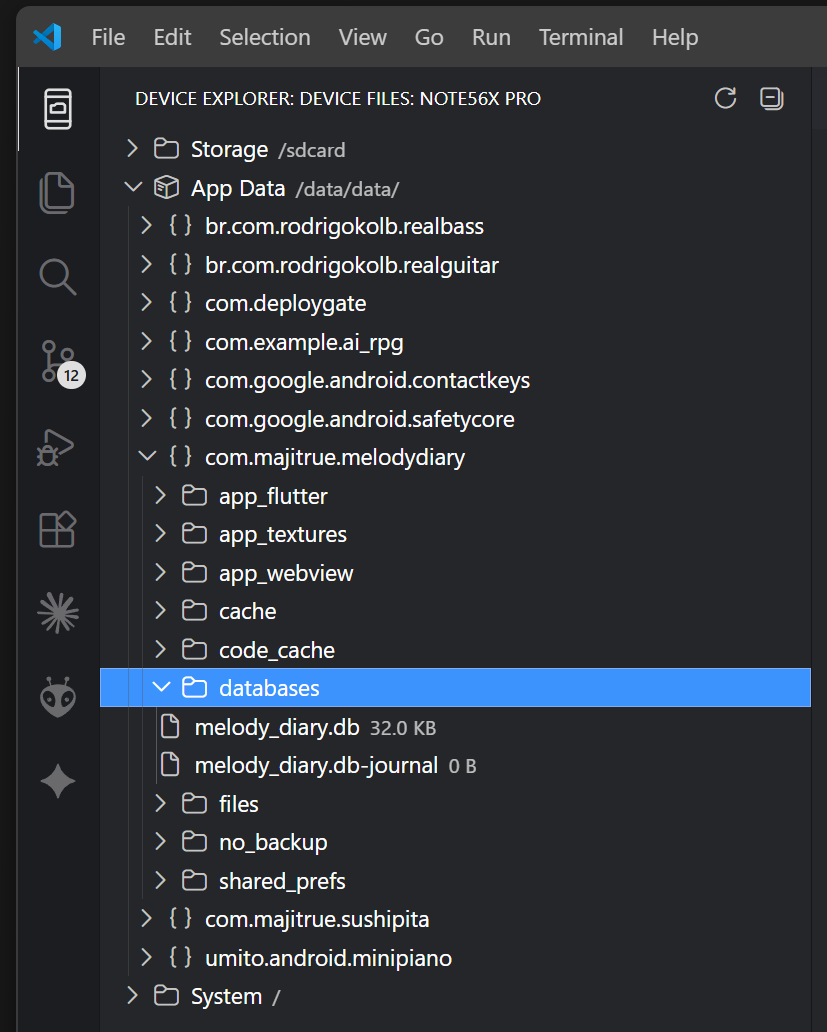
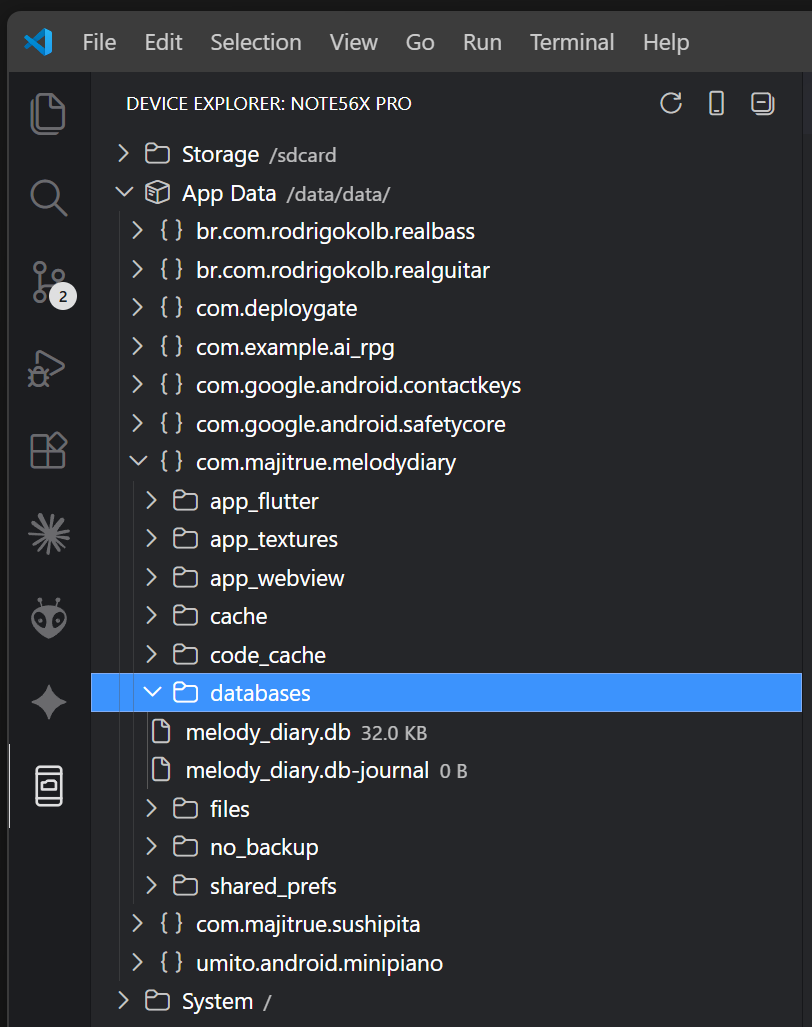
v0.5.1: README多言語化・iOS要件追記・スクリーンショット更新
- README英語/日本語セクション（ナビゲーションリンク付き）
- iOS必要条件をREADMEに追記
- スクリーンショット更新
- description更新（Device File Explorer検索用）
- CHANGELOG英語統一・内部変更を除外

diff --git a/README.md b/README.md
@@ -1,6 +1,8 @@
 # Android / iOS Build & Run
 
-Build, install, and run Android & iOS apps directly from VSCode.
+<a href="#ja">日本語</a>
+
+Build, install, and run Android & iOS apps directly from VSCode. Includes Device File Explorer.
 
 ![Status Bar](images/statusbar.png)
 
@@ -33,9 +35,14 @@ Build, install, and run Android & iOS apps directly from VSCode.
 
 ## Requirements
 
+### Android
 - **Android SDK** with `adb` and `emulator`
 - **Gradle wrapper** (`gradlew` / `gradlew.bat`) in your project root
 - An Android project with `build.gradle` or `build.gradle.kts`
+
+### iOS (macOS only)
+- **Xcode** with Command Line Tools
+- An Xcode project (`.xcodeproj` or `.xcworkspace`)
 
 ## Quick Start
 
@@ -104,3 +111,64 @@ Add to `.vscode/launch.json`:
 ## License
 
 MIT
+
+[⬆ Top](#android--ios-build--run) | [日本語](#ja)
+
+---
+
+<h2 id="ja">日本語</h2>
+
+VSCode から Android / iOS アプリをビルド・インストール・実行。Device File Explorer 搭載。
+
+![ステータスバー](images/statusbar.png)
+
+## 機能
+
+- **デバイス選択** — ステータスバーに現在のデバイスを表示。クリックでデバイス選択やエミュレーター起動。
+
+  ![デバイスピッカー](images/device-picker.png)
+
+- **ワンクリック実行** — ステータスバーの `▶ Run` でビルド・インストール・起動。
+- **マルチデバイス** — 複数デバイスで同時にアプリを実行。デバイスごとに独立したLogcat出力。
+- **ビルドバリアント選択** — Gradleビルドバリアント（`debug`、`release`、フレーバー）を自動スキャン。
+- **エミュレーターコールドブート** — VSCodeからエミュレーターを再起動。
+- **Debug ConsoleにLogcat** — PIDフィルター付きでアプリログをDebug Consoleに表示。
+- **フローティングツールバー** — Flutterと同様のデバッグツールバーで停止・再起動。
+- **F5対応** — `launch.json` でF5キーからビルド＆実行。
+- **SDK・JDK自動検出** — 環境変数、Android Studio、一般的なパスから自動検出。
+- **Device File Explorer** — デバイスのファイルをブラウズ・ダウンロード・アップロード・削除。`run-as` でアプリのプライベートデータにもアクセス。
+
+  ![デバイスエクスプローラー](images/device-explorer.png)
+
+  - VSCodeエクスプローラーからドラッグ&ドロップでアップロード
+  - クリックでファイルを開く — 保存時にデバイスへ自動書き戻し（SQLite3 Editor等のカスタムエディタも対応）
+  - リネーム、ファイル/フォルダー新規作成
+  - 大きなファイルのサイズ警告
+  - キャッシュ管理（デフォルト7日で自動削除）
+  - ビルド用セレクターとは独立したデバイス選択
+- **Feature Toggles** — 設定で各機能の表示ON/OFF。
+- **多言語対応** — 英語・日本語UI。
+
+## 必要条件
+
+### Android
+- **Android SDK**（`adb` と `emulator`）
+- プロジェクトルートに **Gradle wrapper**（`gradlew` / `gradlew.bat`）
+- `build.gradle` または `build.gradle.kts` を含むAndroidプロジェクト
+
+### iOS（macOSのみ）
+- **Xcode**（Command Line Tools含む）
+- Xcodeプロジェクト（`.xcodeproj` または `.xcworkspace`）
+
+## クイックスタート
+
+1. VSCodeでAndroidプロジェクトフォルダーを開く
+2. ステータスバーに接続中のデバイスが表示される（または「No Device」）
+3. デバイス名をクリックしてデバイスを選択またはエミュレーターを起動
+4. **▶ Run** をクリックしてビルド＆実行
+
+## ライセンス
+
+MIT
+
+[⬆ Top](#android--ios-build--run) | [English](#android--ios-build--run)

diff --git a/CHANGELOG.md b/CHANGELOG.md
@@ -1,28 +1,31 @@
 # Changelog
 
+## 0.5.1 (2026-03-20)
+
+- README i18n (English / Japanese sections with navigation links)
+- Added iOS requirements to README
+- Updated screenshots
+
 ## 0.5.0 (2026-03-20)
 
 - **Device File Explorer** — Browse, download, upload, and delete files on Android devices from the sidebar
-  - Storage / App Data / System の3カテゴリ構成
-  - `run-as` 対応でdebuggableアプリのprivateデータにアクセス可能（pull / push / delete / mkdir）
-  - ドラッグ&ドロップでVSCodeエクスプローラーからファイルをアップロード
-  - クリックでファイルをエディタで開く
-  - ファイル保存時にデバイスへ自動書き戻し（カスタムエディタ含む）
-  - マッピング永続化 — VSCode再起動後も書き戻しが動作
-  - キャッシュ管理 — 設定日数（デフォルト7日）を超えた古いキャッシュを自動削除
-  - ファイルサイズ警告 — 設定値（デフォルト10MB）超のファイルを開く/ダウンロード時に確認ダイアログ
-  - デバイス選択はビルド用セレクターと完全独立
-  - リネーム / 新規ファイル作成 / 新規フォルダー作成
-- **Feature toggles** — Settings で各機能の表示ON/OFF (`showDeviceExplorer`, `showDeviceSelector`, `showBuildControls`, `showVariantSelector`)
-  - 全機能OFFでデバイスポーリングも停止
-- Context menu labels simplified (removed "Native Runner:" prefix via `category` property)
+  - Storage / App Data / System category layout
+  - `run-as` support for debuggable app private data (pull / push / delete / mkdir)
+  - Drag & drop upload from VSCode explorer
+  - Click to open files in editor
+  - Auto-push back to device on save (works with any editor including custom editors)
+  - Cache management — auto-cleanup of files older than configurable days (default 7)
+  - File size warning — confirmation dialog for files exceeding configurable limit (default 10MB)
+  - Device selection independent from build selector
+  - Rename / new file / new folder
+- **Feature toggles** — Show/hide individual features in settings (`showDeviceExplorer`, `showDeviceSelector`, `showBuildControls`, `showVariantSelector`)
+  - All features OFF stops device polling
 
 ## 0.4.3 (2026-03-19)
 
 - Project root detection: walk up from active file (Dart-Code style) for reliable detection in nested projects
 - iOS simctl data caching (2s TTL) — device picker opens faster, reduced duplicate commands
 - devicectl timeout reduced from 15s to 5s
-- Device polling interval 3s → 4s (matches Dart-Code)
 
 ## 0.4.2 (2026-03-18)
 
